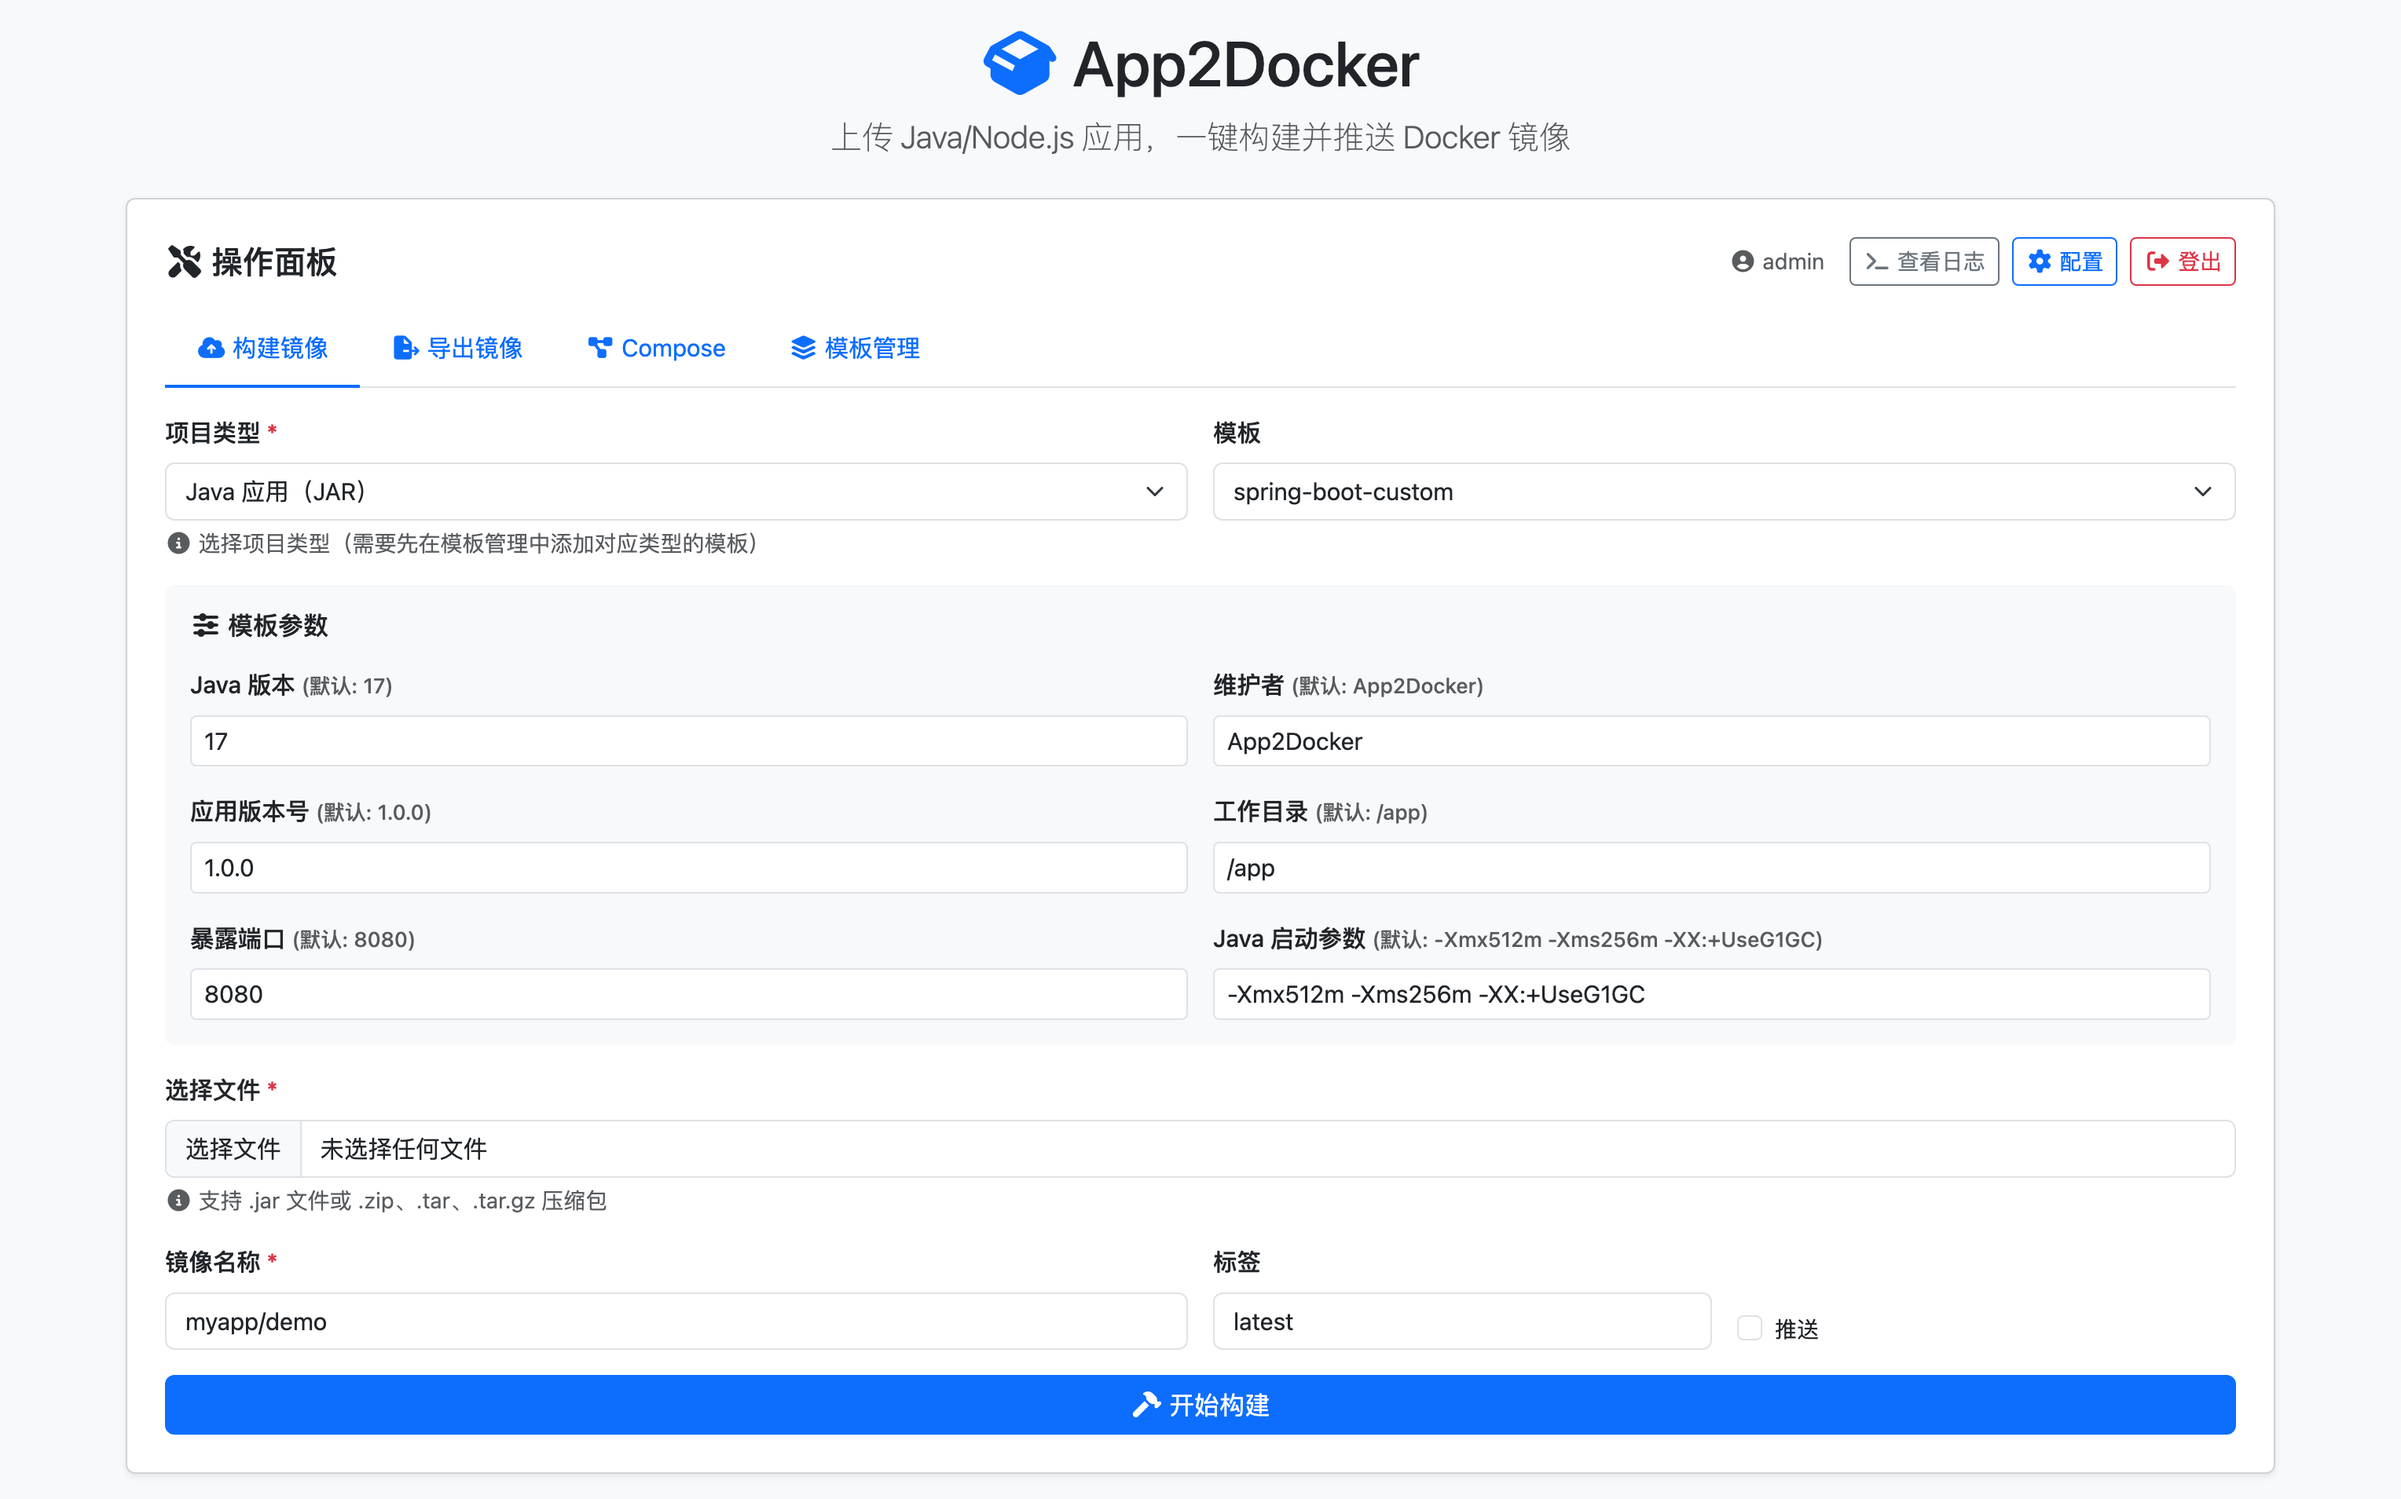
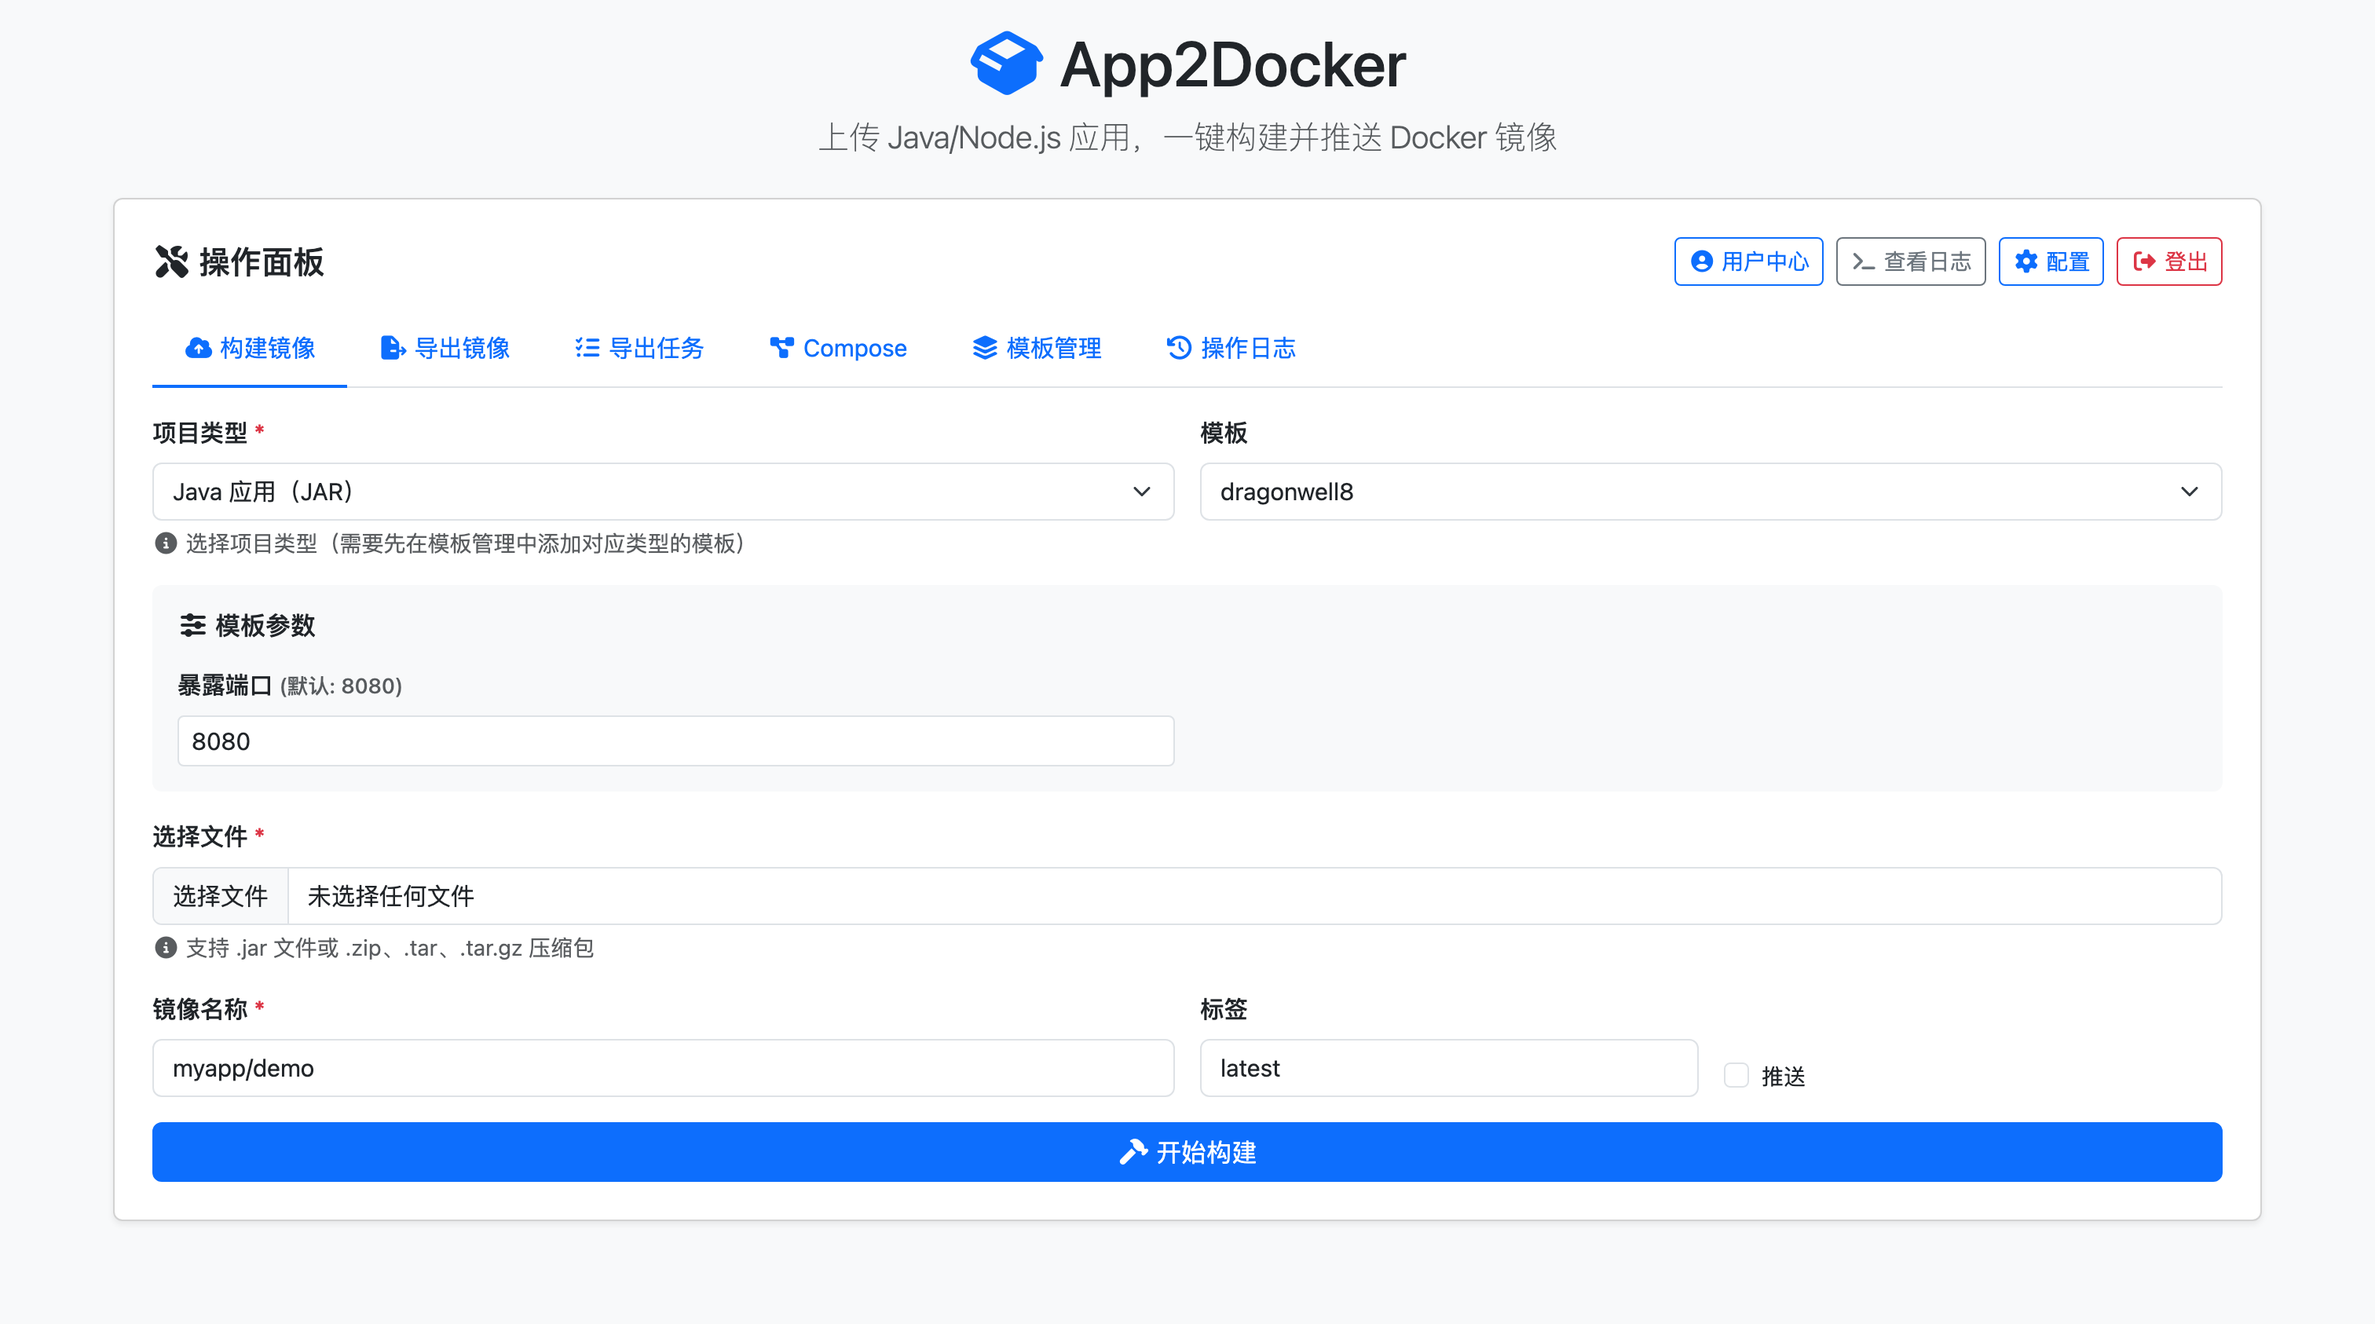
修复问题

diff --git a/frontend/src/components/OperationLogs.vue b/frontend/src/components/OperationLogs.vue
@@ -29,6 +29,39 @@
         <button class="btn btn-sm btn-outline-primary" @click="loadLogs">
           <i class="fas fa-sync-alt"></i> 刷新
         </button>
+        <div class="btn-group">
+          <button 
+            type="button" 
+            class="btn btn-sm btn-outline-danger dropdown-toggle" 
+            data-bs-toggle="dropdown"
+            aria-expanded="false"
+          >
+            <i class="fas fa-trash-alt"></i> 清理日志
+          </button>
+          <ul class="dropdown-menu dropdown-menu-end">
+            <li>
+              <a class="dropdown-item" href="#" @click.prevent="clearLogs(7)">
+                <i class="fas fa-calendar-week"></i> 保留最近 7 天
+              </a>
+            </li>
+            <li>
+              <a class="dropdown-item" href="#" @click.prevent="clearLogs(30)">
+                <i class="fas fa-calendar-alt"></i> 保留最近 30 天
+              </a>
+            </li>
+            <li>
+              <a class="dropdown-item" href="#" @click.prevent="clearLogs(90)">
+                <i class="fas fa-calendar"></i> 保留最近 90 天
+              </a>
+            </li>
+            <li><hr class="dropdown-divider"></li>
+            <li>
+              <a class="dropdown-item text-danger" href="#" @click.prevent="clearLogs(null)">
+                <i class="fas fa-exclamation-triangle"></i> 清空所有日志
+              </a>
+            </li>
+          </ul>
+        </div>
       </div>
     </div>
 
@@ -145,6 +178,31 @@ async function loadLogs() {
     console.error('加载操作日志失败:', err)
   } finally {
     loading.value = false
+  }
+}
+
+async function clearLogs(days) {
+  let confirmMessage = ''
+  if (days === null) {
+    confirmMessage = '确定要清空所有操作日志吗？此操作不可恢复！'
+  } else {
+    confirmMessage = `确定要清理操作日志吗？将保留最近 ${days} 天的日志，其他日志将被删除。`
+  }
+  
+  if (!confirm(confirmMessage)) {
+    return
+  }
+  
+  try {
+    const params = days ? { days } : {}
+    const res = await axios.delete('/api/operation-logs', { params })
+    
+    alert(res.data.message || '清理成功')
+    // 重新加载日志
+    await loadLogs()
+  } catch (err) {
+    alert(err.response?.data?.detail || err.message || '清理失败')
+    console.error('清理操作日志失败:', err)
   }
 }
 

diff --git a/backend/auth.py b/backend/auth.py
@@ -4,12 +4,46 @@
 import jwt
 import hashlib
 import secrets
+import os
 from datetime import datetime, timedelta
 from functools import wraps
 
 # 配置
-SECRET_KEY = secrets.token_hex(32)  # 生成随机密钥（生产环境应该从配置文件读取）
 TOKEN_EXPIRE_HOURS = 24
+
+# SECRET_KEY 文件路径
+SECRET_KEY_FILE = "data/secret_key.txt"
+
+
+def get_or_create_secret_key() -> str:
+    """获取或创建 SECRET_KEY（持久化到文件，确保重启后密钥一致）"""
+    # 确保目录存在
+    os.makedirs(os.path.dirname(SECRET_KEY_FILE), exist_ok=True)
+    
+    # 如果文件存在，读取密钥
+    if os.path.exists(SECRET_KEY_FILE):
+        try:
+            with open(SECRET_KEY_FILE, "r", encoding="utf-8") as f:
+                key = f.read().strip()
+                if key and len(key) >= 32:  # 确保密钥长度足够
+                    return key
+        except Exception as e:
+            print(f"⚠ 读取 SECRET_KEY 失败: {e}，将生成新密钥")
+    
+    # 生成新密钥并保存
+    key = secrets.token_hex(32)
+    try:
+        with open(SECRET_KEY_FILE, "w", encoding="utf-8") as f:
+            f.write(key)
+        print(f"✅ 已生成并保存新的 SECRET_KEY")
+    except Exception as e:
+        print(f"⚠ 保存 SECRET_KEY 失败: {e}，使用临时密钥（重启后会失效）")
+    
+    return key
+
+
+# 初始化 SECRET_KEY（从文件加载或生成）
+SECRET_KEY = get_or_create_secret_key()
 
 # 默认用户（应该从配置文件读取或数据库）
 DEFAULT_USERS = {

diff --git a/backend/routes.py b/backend/routes.py
@@ -230,6 +230,32 @@ async def get_operation_logs(
         raise HTTPException(status_code=500, detail=f"获取操作日志失败: {str(e)}")
 
 
+@router.delete("/operation-logs")
+async def clear_operation_logs(
+    request: Request,
+    days: Optional[int] = Query(None, description="保留最近 N 天的日志，不传则清空所有"),
+):
+    """清理操作日志"""
+    try:
+        username = get_current_username(request)
+        logger = OperationLogger()
+        removed_count = logger.clear_logs(days=days)
+        
+        # 记录清理操作
+        OperationLogger.log(username, "clear_logs", {
+            "removed_count": removed_count,
+            "days_kept": days
+        })
+        
+        return JSONResponse({
+            "success": True,
+            "removed_count": removed_count,
+            "message": f"已清理 {removed_count} 条日志" if days else "已清空所有日志"
+        })
+    except Exception as e:
+        raise HTTPException(status_code=500, detail=f"清理操作日志失败: {str(e)}")
+
+
 # === 配置相关 ===
 @router.get("/get-config")
 async def get_config():
